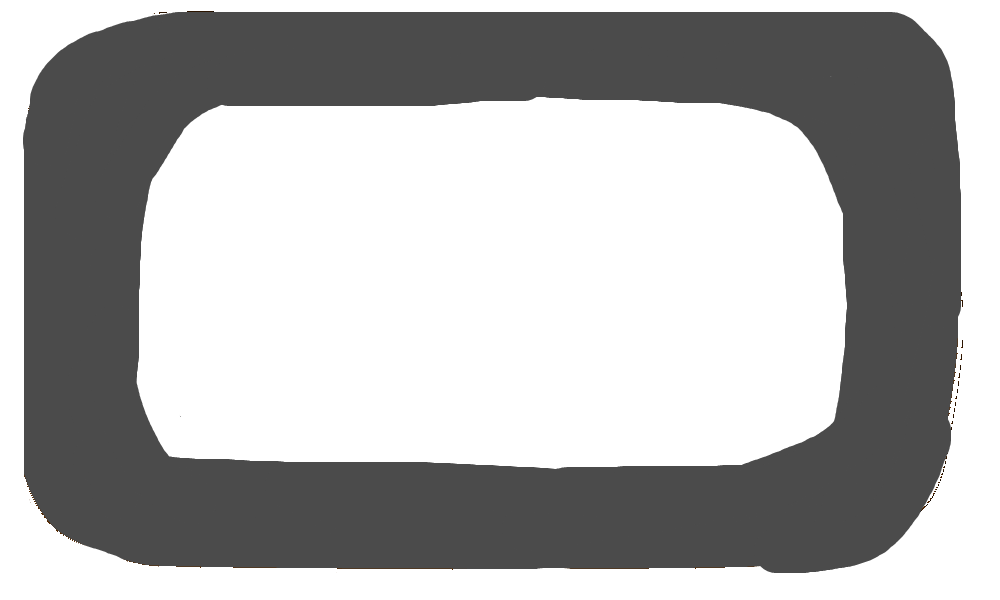
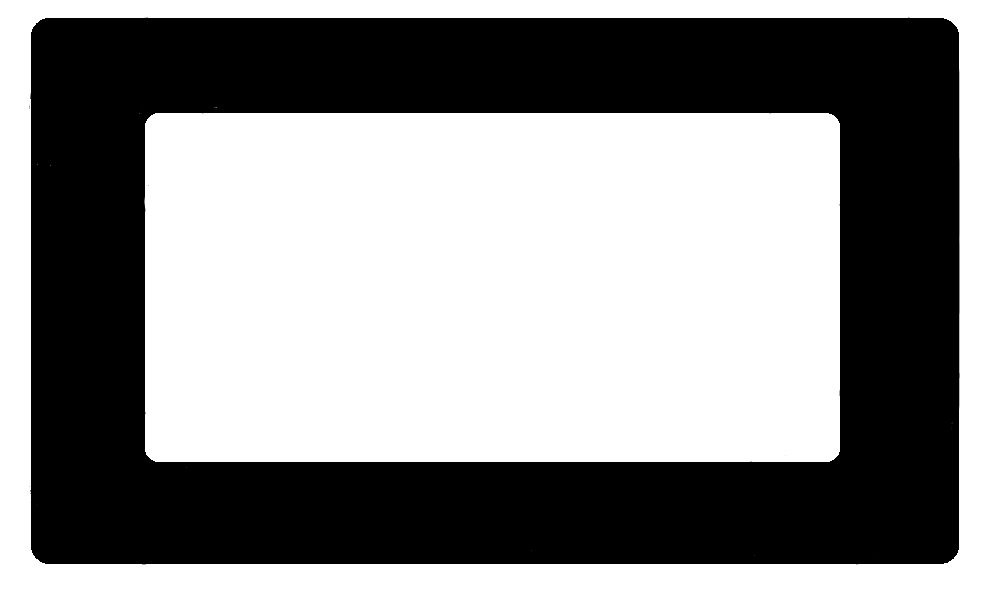
Fix

diff --git a/DQN/test.py b/DQN/test.py
@@ -1,32 +1,35 @@
-from datetime import datetime
 import numpy as np
 import pygame
 import torch
 
 from DQN.Agent import DQNAgent
 from DQN.CarEnvironment import CarEnvironment
-from agentCar import Car
+from DQN.agentCar import Car
 from ray_list import create_rays
 from track_lines import TrackLines, handle_collision_with_lines
 from utilities.reorder_road_points import reorder_road_points
 from utilities.road_utils import find_closest_point, load_road_points, calculate_distance_from_start
 from utilities.threshold import apply_threshold
-from weightVisualizer import WeightVisualizer
-
+from DQN.weightVisualizer import WeightVisualizer
 
 track_lines = TrackLines()
 
-start_pos = (250, 500)
+start_pos = (80, 300)
 
 batch_size = 64
 tick_rate = 30
+
+
+def apply_collision_penalty(env):
+    base_penalty = -500
+    env.reward = base_penalty
 
 
 def reset_game(env):
     global car, track_lines
     car.x, car.y = start_pos[0], start_pos[1]
     car.speed = 3
-    car.angle = 0
+    car.angle = 90
     track_lines = TrackLines()
     env.reward = 0
 
@@ -59,7 +62,7 @@ def update_score_display(car_pos, road_points, window):
 
 
 
-car = Car('../images/car.png', scale_factor=0.1, start_x=start_pos[0], start_y=start_pos[1], start_angle=0)
+car = Car('../images/car.png', scale_factor=0.1, start_x=start_pos[0], start_y=start_pos[1], start_angle=90)
 
 
 def main():
@@ -87,14 +90,15 @@ def main():
     road_points = reorder_road_points(start_pos, road_points)[:-2]
 
     env = CarEnvironment(car, track_lines, rays, 0)
-    agent = DQNAgent(env.state_size, env.action_size, learning_rate=0.01, epsilon=1.0,
-                     epsilon_min=0.01, epsilon_decay=0.9999, buffer_size=5000)
+    agent = DQNAgent(env.state_size, env.action_size, learning_rate=0.01, epsilon=0.01,
+                     epsilon_min=0.01, epsilon_decay=0.999, buffer_size=1000)
     visualizer = WeightVisualizer(agent.model, use_cv2=True)
 
+    agent.model.load_state_dict(torch.load("model_weights.pth"))
+    agent.model.eval()
+    agent.epsilon = 0.05
     # Training parameters
-    collision_penalty = -50
-    best_score = 0
-    gamma = 0.5
+    gamma = 0.2
     gen = 0
     frame = 0
     pass_startline = False
@@ -103,19 +107,6 @@ def main():
         for event in pygame.event.get():
             if event.type == pygame.QUIT:
                 run = False
-
-            elif event.type == pygame.KEYDOWN:
-                if event.key == pygame.K_p:
-                    print("Game manually stopped!")
-                    env.reward -= 100
-                    env.done = True
-                    reset_game(env)
-                    env.reward = 0
-
-                elif event.key == pygame.K_s:
-                    now = datetime.now()
-                    torch.save(agent.model.state_dict(), f"model_weights_{now.month:02d}{now.day:02d}_{now.hour:02d}{now.minute:02d}.pth")
-                    print('Model saved.')
 
         keys = pygame.key.get_pressed()
         car.update(keys)
@@ -129,9 +120,7 @@ def main():
 
         for ray in rays:
             ray.draw_beam(car_pos, car.angle, flipped_masks, beam_surface, threshold_mask)
-            if ray.distance < ray.dangerous_distance:
-                red_penalty = ray.dangerous_distance - ray.distance
-                env.reward -= 0.08 * red_penalty
+
         # Collision detection
         car_mask = pygame.mask.from_surface(car.car_image)
         car_offset = (int(car.x - car.rect.width / 2), int(car.y - car.rect.height / 2))
@@ -142,10 +131,6 @@ def main():
         state = env.get_state()
         action = agent.act(state)
 
-        # penalty for jittery movement
-        if action == 0 or 1:
-            env.reward -= 0.1
-
         # Yeni: Ödül hesapla
         new_score = update_score_display(car_pos, road_points, window)
 
@@ -153,46 +138,38 @@ def main():
         pass_startline, _ = handle_collision_with_lines(
             car, track_lines.start_line_rect, track_lines.mid_line_rect,
             track_lines.blue_line_rect, pass_startline, )
-
         car_rect = car.car_image.get_rect(center=(car.x, car.y))
         if car_rect.colliderect(track_lines.reward_line_1_rect):
             track_lines.reward_line_1_rect = (0, 0, 0, 0)
             env.reward += 200
             print("reward line 1 passed")
-        elif car_rect.colliderect(track_lines.reward_line_2_rect):
+        if car_rect.colliderect(track_lines.reward_line_2_rect):
             track_lines.reward_line_2_rect = (0, 0, 0, 0)
             env.reward += 300
             print("reward line 2 passed")
-        elif car_rect.colliderect(track_lines.reward_line_3_rect):
+        if car_rect.colliderect(track_lines.reward_line_3_rect):
             track_lines.reward_line_3_rect = (0, 0, 0, 0)
             env.reward += 500
             print("reward line 3 passed")
-        elif car_rect.colliderect(track_lines.reward_line_4_rect):
-            track_lines.reward_line_4_rect = (0, 0, 0, 0)
-            env.reward += 700
-            print("reward line 4 passed")
+
 
         if collision:
             print("Collision detected with the road.")
-            env.reward = collision_penalty
-            agent.step(state, action, env.reward, next_state, True)
+            env.reward = -50
+            # agent.step(state, action, env.reward, next_state, True)  # Öğrenmeye uygula
             reset_game(env)
             new_score, env.score = 0, 0
 
         else:
             progress = new_score - env.score
-            env.reward += progress * 3
+            env.reward += progress * 1
             env.score = new_score
 
-            if env.reward > best_score:
-                best_score = env.reward
-                collision_penalty *= 1 + best_score / 50000
-
-            next_state, reward, done = env.step(action)
+            next_state, reward, done = env.step(action)  # reward parametresi kullanılmıyor
             next_state = np.array(next_state, dtype=np.float32)
-            agent.step(state, action, env.reward, next_state, done)
-            if len(agent.replay_buffer) > batch_size:
-                agent.replay(batch_size)
+            # agent.step(state, action, env.reward, next_state, done)
+            # if len(agent.replay_buffer) > batch_size:
+            #     agent.replay(batch_size)
 
         # Draw GUI elements
         score = update_score_display(car_pos, road_points, window)
@@ -207,7 +184,6 @@ def main():
         pygame.draw.rect(window, (120, 180, 120), track_lines.reward_line_1_rect)
         pygame.draw.rect(window, (120, 180, 120), track_lines.reward_line_2_rect)
         pygame.draw.rect(window, (120, 180, 120), track_lines.reward_line_3_rect)
-        pygame.draw.rect(window, (120, 180, 120), track_lines.reward_line_4_rect)
 
         car.draw(window)
         pygame.display.update()

diff --git a/track_lines.py b/track_lines.py
@@ -5,23 +5,49 @@ import pygame
 
 class TrackLines:
     def __init__(self):
-        self.start_line = (20, 270, 130, 10)
+        # its for game start with curve
+        # self.start_line = (20, 270, 130, 10)
+        # self.start_line_rect = pygame.Rect(*self.start_line)
+        #
+        # self.mid_line = (830, 400, 130, 10)
+        # self.mid_line_rect = pygame.Rect(*self.mid_line)
+        #
+        # self.blue_line = (20, 300, 130, 10)
+        # self.blue_line_rect = pygame.Rect(*self.blue_line)
+        #
+        # self.reward_line_1 = (200, 500, 10, 30)
+        # self.reward_line_1_rect = pygame.Rect(*self.reward_line_1)
+        #
+        # self.reward_line_2 = (600, 500, 10, 30)
+        # self.reward_line_2_rect = pygame.Rect(*self.reward_line_2)
+        #
+        # self.reward_line_3 = (900, 400, 40, 10)
+        # self.reward_line_3_rect = pygame.Rect(*self.reward_line_3)
+        #
+        # self.reward_line_4 = (900, 250, 40, 10)
+        # self.reward_line_4_rect = pygame.Rect(*self.reward_line_4)
+
+
+        self.start_line = (200, 450, 10, 120)
         self.start_line_rect = pygame.Rect(*self.start_line)
 
-        self.mid_line = (830, 400, 130, 10)
+        self.mid_line = (500, 15, 10, 120)
         self.mid_line_rect = pygame.Rect(*self.mid_line)
 
-        self.blue_line = (20, 300, 130, 10)
+        self.blue_line = (220, 450, 10, 120)
         self.blue_line_rect = pygame.Rect(*self.blue_line)
 
-        self.reward_line_1 = (200, 450, 10, 100)
+        self.reward_line_1 = (600, 500, 10, 40)
         self.reward_line_1_rect = pygame.Rect(*self.reward_line_1)
 
-        self.reward_line_2 = (600, 470, 10, 100)
+        self.reward_line_2 = (900, 250, 30, 10)
         self.reward_line_2_rect = pygame.Rect(*self.reward_line_2)
 
-        self.reward_line_3 = (800, 400, 130, 10)
+        self.reward_line_3 = (900, 400, 40, 10)
         self.reward_line_3_rect = pygame.Rect(*self.reward_line_3)
+
+        self.reward_line_4 = (200, 80, 10, 30)
+        self.reward_line_4_rect = pygame.Rect(*self.reward_line_4)
 
 
 def handle_collision_with_lines(car, start_line_rect, mid_line_rect, blue_line_rect,pass_startline):

diff --git a/DQN/CarEnvironment.py b/DQN/CarEnvironment.py
@@ -13,22 +13,21 @@ class CarEnvironment:
     def __init__(self, car, track_lines, rays, score):
         self.car = car
         self.track_lines = track_lines
-        self.state_size = 11  # [ray distances*14, speed, score, angle]
+        self.state_size = 13  # [ray distances*14, speed, score, angle]
         self.action_size = 3  # [forward, backward, turn right, turn left, nothing]
         self.pass_startline = False
         self.lap_flag = False
         self.rays = rays
         self.score = score
-        self.reward = -1
+        self.reward = 0
 
     def get_state(self):
         ray_distances = [ray.distance for ray in self.rays]
         ray_distances = np.array(ray_distances)
         ray_distances = ray_distances / 200
-        # normalized_angle = self.car.angle / 360.0  # 0-1 aralığında
-        # normalized_speed = self.car.speed / self.car.max_speed
-        return np.array([
-            *ray_distances,])# """normalized_speed"""""", self.score"""
+        normalized_angle = self.car.angle / 360.0  # 0-1 aralığında
+        normalized_speed = self.car.speed / self.car.max_speed
+        return np.concatenate([ray_distances, [normalized_angle, normalized_speed]])
 
     def step(self, action):
         # Update the car

diff --git a/DQN/Agent.py b/DQN/Agent.py
@@ -7,7 +7,7 @@ import torch.nn.functional as F
 
 
 class DQNAgent:
-    def __init__(self, state_size, action_size, buffer_size=350, epsilon=1.0, epsilon_min=0.01, epsilon_decay=0.9995, learning_rate=0.01):
+    def __init__(self, state_size, action_size, buffer_size=500, epsilon=1.0, epsilon_min=0.01, epsilon_decay=0.9995, learning_rate=0.01):
         self.state_size = state_size
         self.action_size = action_size
         self.epsilon = epsilon
@@ -25,9 +25,9 @@ class DQNAgent:
 
     def _build_model(self):
         return torch.nn.Sequential(
-            torch.nn.Linear(self.state_size, 64),
+            torch.nn.Linear(self.state_size, 128),
             torch.nn.ReLU(),
-            torch.nn.Linear(64, 32),
+            torch.nn.Linear(128, 32),
             torch.nn.ReLU(),
             torch.nn.Linear(32, self.action_size),
         )
@@ -60,7 +60,7 @@ class DQNAgent:
                 target = reward + self.gamma * next_q
 
             current_q = self.model(torch.FloatTensor(state)).squeeze(0)[action]
-            loss = F.mse_loss(current_q, torch.tensor(target))
+            loss = F.mse_loss(current_q, torch.tensor(target, dtype=torch.float32))
 
             self.optimizer.zero_grad()
             loss.backward()

diff --git a/ray.py b/ray.py
@@ -8,6 +8,7 @@ class Ray:
         self.surface = surface
         self.name = name
         self.distance = 0  # Çarpma mesafesi.
+        self.dangerous_distance = 50
 
     def draw_beam(self, pos, car_angle, flipped_masks, beam_surface, threshold_mask, max_distance=200):
         adjusted_angle = self.angle + car_angle
@@ -32,8 +33,10 @@ class Ray:
             hx = threshold_mask.get_size()[0] - 1 - hit[0] if flip_x else hit[0]
             hy = threshold_mask.get_size()[1] - 1 - hit[1] if flip_y else hit[1]
             hit_pos = (hx, hy)
-
-            pygame.draw.line(self.surface, (0, 0, 255), pos, hit_pos)
+            if self.distance < self.dangerous_distance:
+                pygame.draw.line(self.surface, (255, 0, 0), pos, hit_pos)
+            else:
+                pygame.draw.line(self.surface, (0, 0, 255), pos, hit_pos)
             pygame.draw.circle(self.surface, (0, 255, 0), hit_pos, 3)
             self.distance = math.sqrt((hit_pos[0] - pos[0]) ** 2 + (hit_pos[1] - pos[1]) ** 2)
         else:

diff --git a/DQN/agentCar.py b/DQN/agentCar.py
@@ -43,7 +43,6 @@ class Car:
         rect = rotated_car.get_rect(center=(self.x, self.y))
         surface.blit(rotated_car, rect.topleft)
 
-        # Semi-transparent red rectangle (collider)
 
         collider_surface = pygame.Surface((self.rect.width, self.rect.height), pygame.SRCALPHA)
         # pygame.draw.rect(collider_surface, (127,0,0), collider_surface.get_rect())  # Semi-transparent red

diff --git a/Simulation.py b/Simulation.py
@@ -33,7 +33,7 @@ beam_surface = pygame.Surface((200, 200), pygame.SRCALPHA)
 
 start_pos = (60, 300)
 car = Car(car_image_path, scale_factor=0.1,start_x=start_pos[0], start_y=start_pos[1], start_angle=90)
-road_points = load_road_points("road_points_track2.txt")
+road_points = load_road_points("road_points/road_points_track2.txt")
 road_points = reorder_road_points(start_pos, road_points)
 
 

diff --git a/Q-Learning/train.py b/Q-Learning/train.py
@@ -34,7 +34,7 @@ beam_surface = pygame.Surface((WINDOW_SIZE[0], WINDOW_SIZE[1]), pygame.SRCALPHA)
 
 # Başlangıç konumları ve yolu yükle
 start_pos = (60, 300)
-road_points = load_road_points("../road_points_track2.txt")
+road_points = load_road_points("../road_points/road_points_track2.txt")
 road_points = reorder_road_points(start_pos, road_points)
 
 # Çoklu Ajan Yapılandırması

diff --git a/utilities/generate_roads.py b/utilities/generate_roads.py
@@ -62,7 +62,7 @@ def save_road_points(road_points, filepath):
 if __name__ == "__main__":
     # Resim yolu ve çıkış dosyası
     image_path = '../images/track_basic.png'   # Yol resmi
-    output_file = "../road_points_road_basic.txt"
+    output_file = "../road_points/road_points_road_basic.txt"
 
     # Yol konturunu al
     try:

diff --git a/utilities/road_utils.py b/utilities/road_utils.py
@@ -1,5 +1,6 @@
 import math
 
+
 def find_closest_point(car_pos, road_points):
     """
     Arabanın konumuna en yakın yol noktasını bulur.
